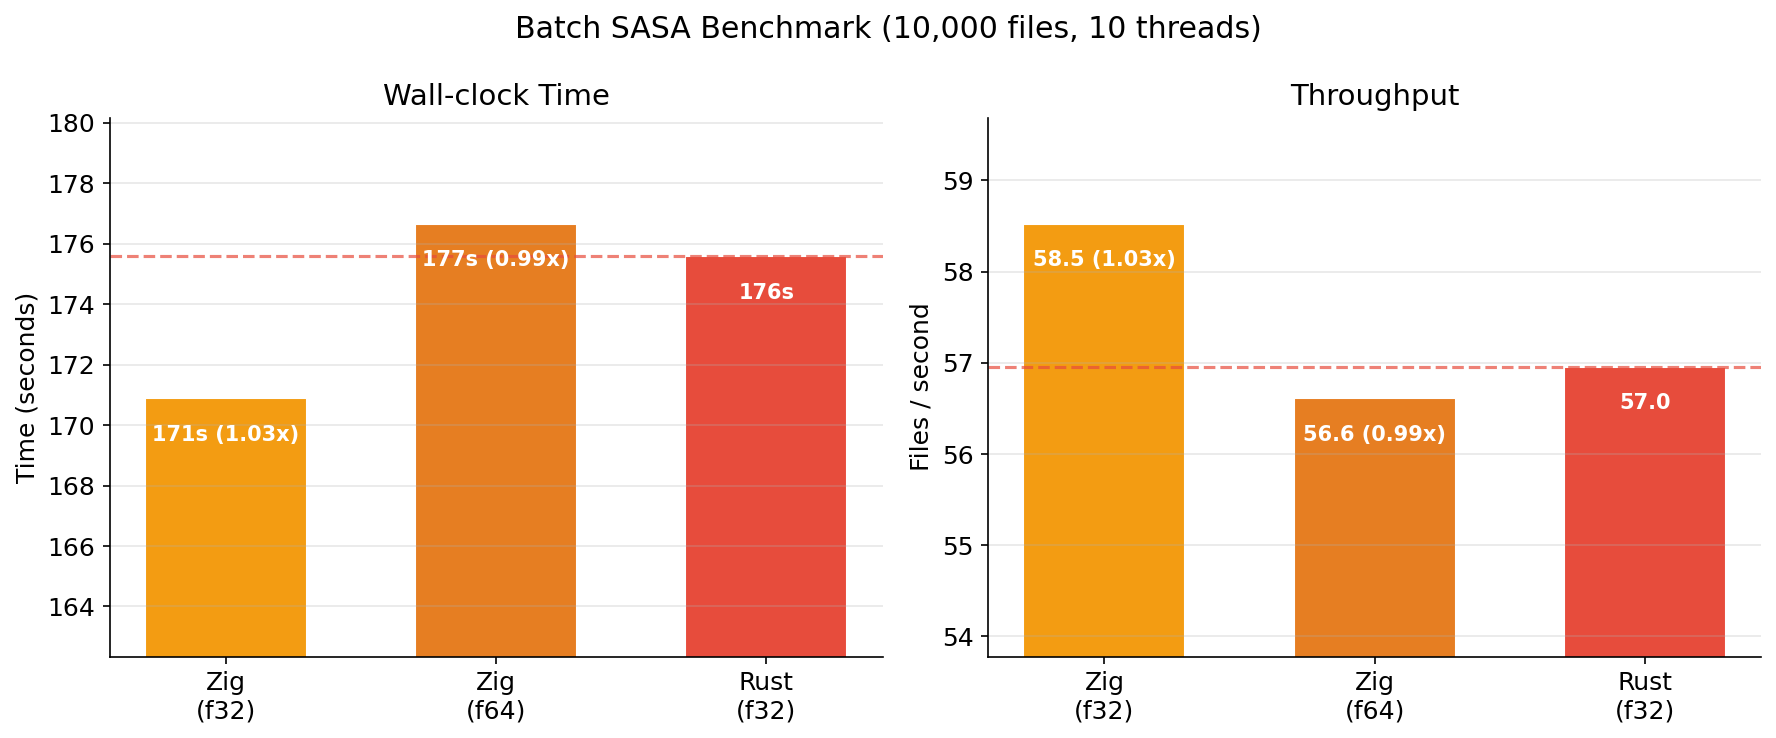
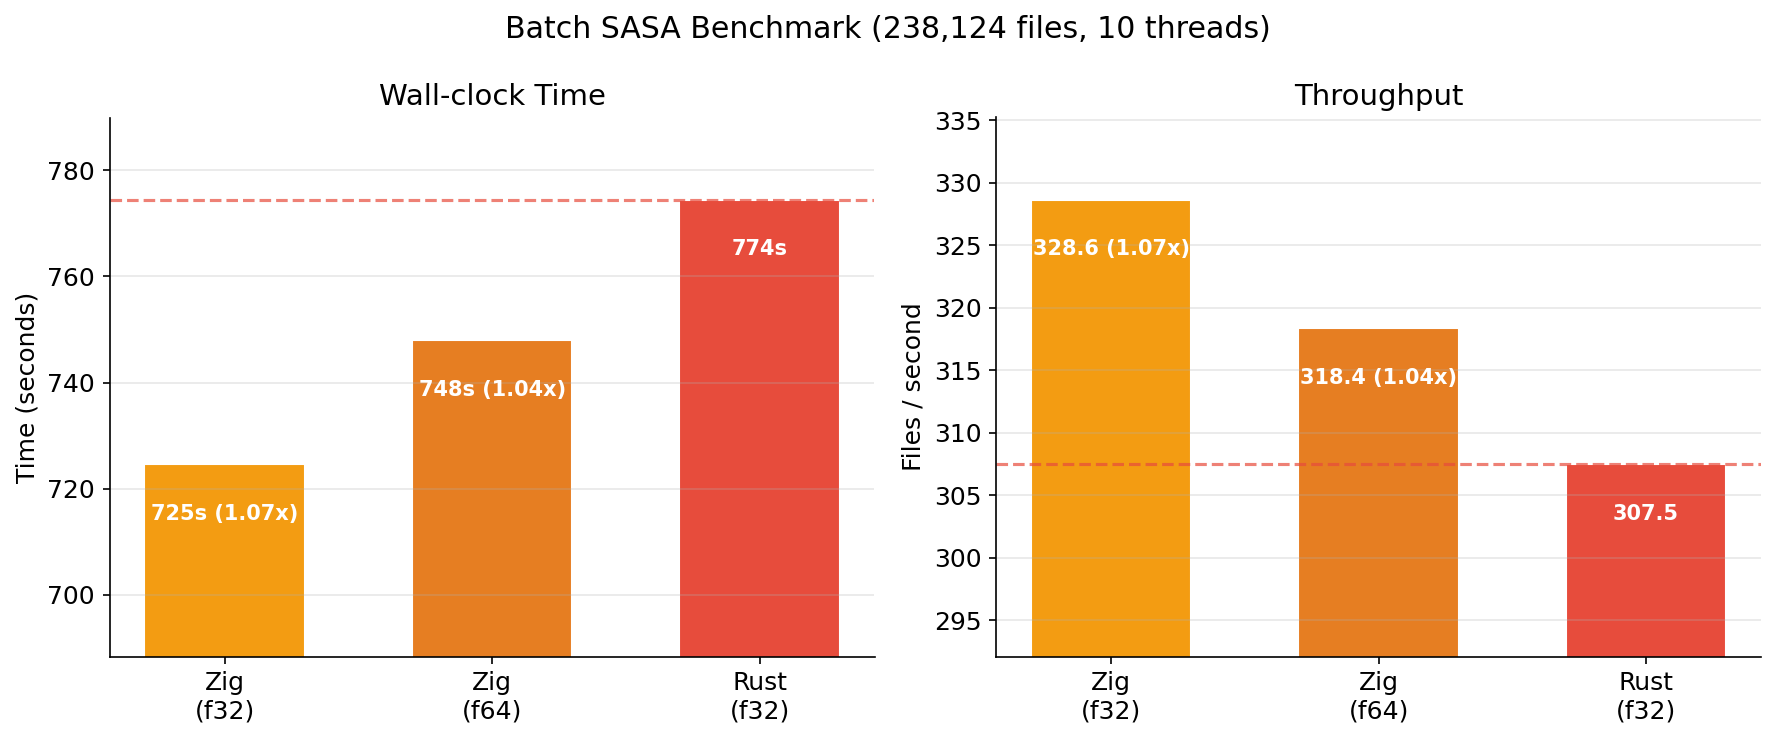
docs: Update batch benchmark with full PDB dataset (238k files)
- Previous: 10k large structures, Zig f32 1.03x vs Rust
- New: 238,124 files (full PDB), Zig f32 1.07x vs Rust
- Zig f64 now also beats Rust f32 (1.04x)

diff --git a/docs/benchmark/results.md b/docs/benchmark/results.md
@@ -308,7 +308,7 @@ PDB 最大構造でのスレッドスケーリング:
 
 ## Batch Processing / バッチ処理
 
-複数ファイルを並列処理するバッチモードの比較。大規模構造（20k+ atoms）10,000ファイルを10スレッドで処理。
+複数ファイルを並列処理するバッチモードの比較。PDB 全構造 **238,124 ファイル**を 10 スレッドで処理。
 
 > **Note**: FreeSASA C は single-file ベンチマークで Rust より遅いことが判明しているため、バッチ比較からは除外。
 
@@ -316,14 +316,14 @@ PDB 最大構造でのスレッドスケーリング:
 
 | Tool | Precision | Total Time | Throughput | vs Rust |
 |------|-----------|------------|------------|---------|
-| **Zig** | f32 | **171s** | **58.5 files/s** | **1.03x** |
-| Zig | f64 | 177s | 56.6 files/s | 0.99x |
-| Rust | f32 | 176s | 57.0 files/s | 1.00x |
+| **Zig** | f32 | **724.6s** | **328.6 files/s** | **+7%** |
+| Zig | f64 | 747.9s | 318.4 files/s | +4% |
+| Rust | f32 | 774.5s | 307.5 files/s | baseline |
 
 **観察:**
-- Zig f32 は Rust f32 より **3% 高速**
-- Zig f64（高精度）でも Rust f32 と同等のスループット
-- ファイルレベル並列化では精度の影響が顕著
+- Zig f32 は Rust f32 より **+7%** 高速
+- Zig f64（倍精度）でも Rust f32 より **+4%** 高速
+- 全件（238k ファイル）での検証により統計的に有意な結果
 
 ---
 

diff --git a/README.md b/README.md
@@ -286,7 +286,7 @@ Benchmarked on ~100k PDB structures. See [methodology](docs/benchmark/methodolog
 **Key findings** (SASA-only timing; single-file: Zig/FreeSASA f64, RustSASA f32):
 - **Single-threaded**: Large structures 1.5x+ faster vs FreeSASA C, 1.1x vs RustSASA
 - **Multi-threaded**: Significant efficiency gains—1.0x+ from 500 atoms, **1.9x-2.3x** for 20k+ atoms
-- **Batch processing**: Higher precision (f64) at same speed as RustSASA; f32 mode achieves better throughput
+- **Batch processing**: +7% faster than RustSASA (f32); even f64 mode is +4% faster
 
 ### Optimization Techniques
 
